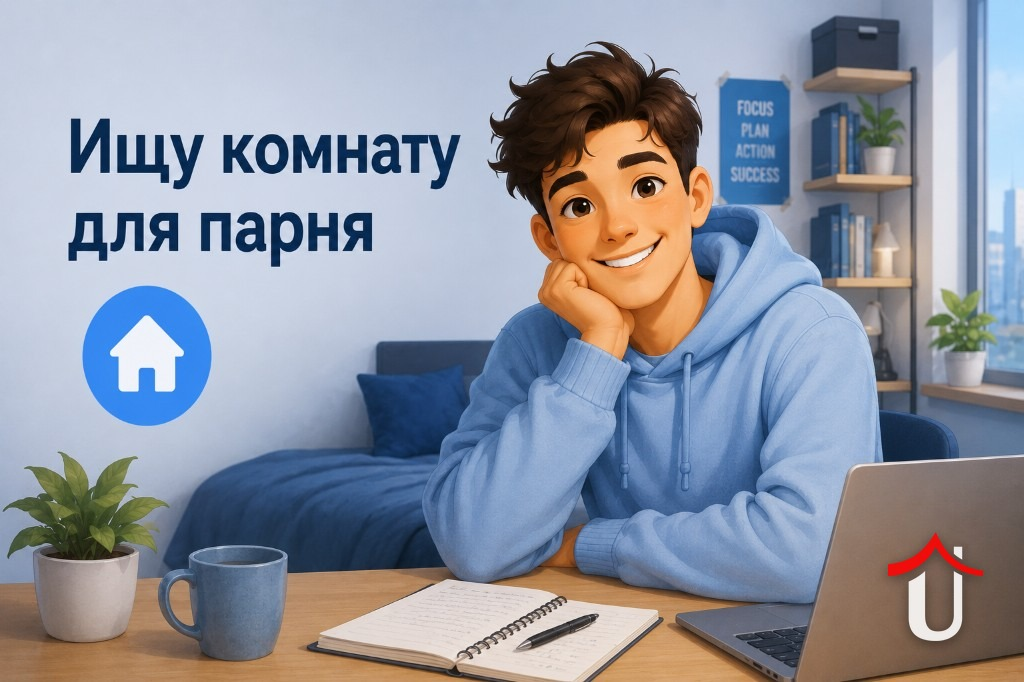
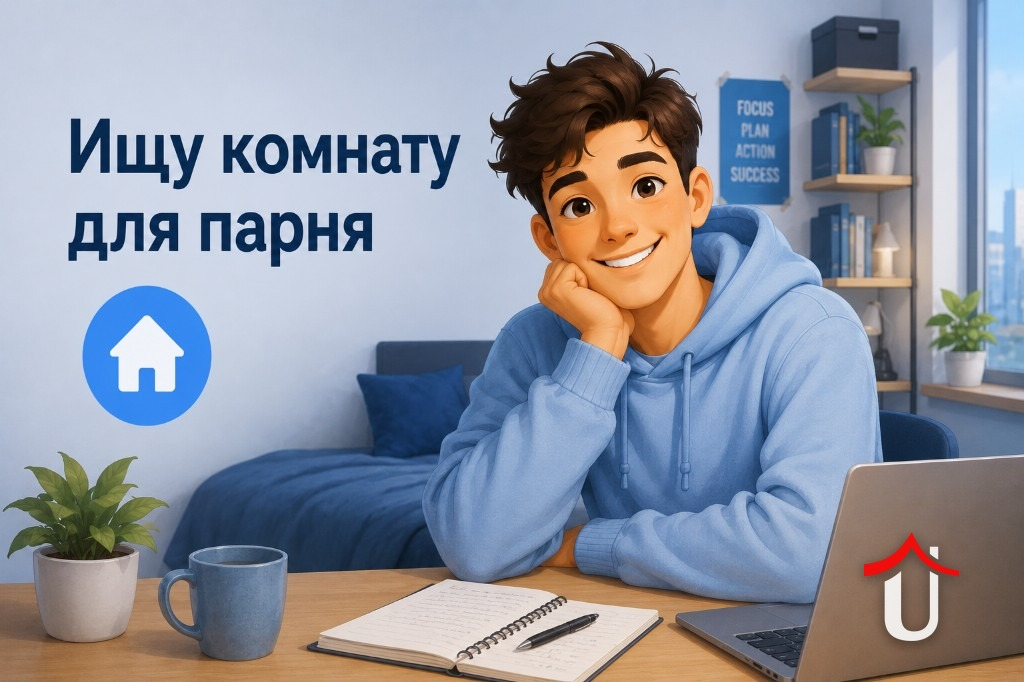
3d viewer

Changed region(s): [[0.8438, 0.7698, 0.9688, 0.9545]]

diff --git a/assets/listing-detail.css b/assets/listing-detail.css
@@ -253,11 +253,35 @@
         scroll-snap-align: start;
         aspect-ratio: 4 / 3;
         background: rgba(0, 0, 0, 0.15);
+        position: relative;
+        overflow: hidden;
       }
-      .gallery-slide img {
+      /* Blurred cover-fill backdrop behind the full (uncropped) photo — mirrors
+         the mobile app's detail gallery, which never crops a listing photo
+         (a hard crop can cut off the UyDosh watermark baked into the
+         bottom-right corner of every photo, especially on portrait shots). */
+      .gallery-slide-bg {
+        position: absolute;
+        inset: -12px;
+        width: calc(100% + 24px);
+        height: calc(100% + 24px);
+        object-fit: cover;
+        filter: blur(20px);
+        display: block;
+        user-select: none;
+        -webkit-user-drag: none;
+      }
+      .gallery-slide-scrim {
+        position: absolute;
+        inset: 0;
+        background: rgba(0, 0, 0, 0.12);
+      }
+      .gallery-slide-fg {
+        position: absolute;
+        inset: 0;
         width: 100%;
         height: 100%;
-        object-fit: cover;
+        object-fit: contain;
         display: block;
         user-select: none;
         -webkit-user-drag: none;

diff --git a/assets/listing-detail.js b/assets/listing-detail.js
@@ -1062,6 +1062,16 @@
                 ${state.photos.map((p, i) => `
                   <div class="gallery-slide" data-gallery-slide="${i}" aria-roledescription="slide" aria-label="${UyDosh.escapeHtml(UyDosh.t('detail.gallery.photo'))} ${i + 1} / ${state.photos.length}">
                     <img
+                      class="gallery-slide-bg"
+                      aria-hidden="true"
+                      ${i === 0 ? '' : 'loading="lazy" '}
+                      src="${UyDosh.escapeHtml(UyDosh.photoUrl(p))}"
+                      alt=""
+                      draggable="false"
+                    />
+                    <div class="gallery-slide-scrim" aria-hidden="true"></div>
+                    <img
+                      class="gallery-slide-fg"
                       ${i === 0 ? '' : 'loading="lazy" '}
                       src="${UyDosh.escapeHtml(UyDosh.photoUrl(p))}"
                       alt="${UyDosh.escapeHtml(state.listing?.title || '')}"

diff --git a/listing.html b/listing.html
@@ -34,7 +34,7 @@
     <link rel="icon" href="/favicon.png" type="image/png" sizes="32x32" />
     <link rel="apple-touch-icon" href="/apple-touch-icon.png" />
 
-    <link rel="stylesheet" href="assets/listing-detail.css?v=20260708-1" />
+    <link rel="stylesheet" href="assets/listing-detail.css?v=20260708-2" />
   </head>
   <body>
     <div class="wrap">
@@ -111,6 +111,6 @@
     <script src="assets/uydosh-badges.js?v=20260703-67" defer></script>
     <script src="assets/uydosh-profile-match.js?v=20260705-1" defer></script>
     <script src="assets/uydosh-mini-app.js?v=20260707-106" defer></script>
-    <script src="assets/listing-detail.js?v=20260708-1" defer></script>
+    <script src="assets/listing-detail.js?v=20260708-2" defer></script>
   </body>
 </html>

diff --git a/scripts/watermark-generic-images.py b/scripts/watermark-generic-images.py
@@ -37,6 +37,7 @@ TARGETS = [
 LOGO_OPACITY = 0.88
 LOGO_HEIGHT_RATIO = 0.16  # logo height as a fraction of the photo height
 MARGIN_RATIO = 0.035  # margin from the edges as a fraction of photo height
+EXTRA_LEFT_SHIFT_PX = 24  # additional horizontal-only nudge away from the right edge
 
 SHADOW_BLUR = 6
 SHADOW_ALPHA = 0.55
@@ -120,7 +121,7 @@ def stamp(image_path: Path, base_logo: Image.Image) -> None:
     watermark.putalpha(scaled_alpha)
 
     margin = int(photo.height * MARGIN_RATIO)
-    x = photo.width - watermark.width - margin
+    x = photo.width - watermark.width - margin - EXTRA_LEFT_SHIFT_PX
     y = photo.height - watermark.height - margin
 
     photo.alpha_composite(watermark, (x, y))
